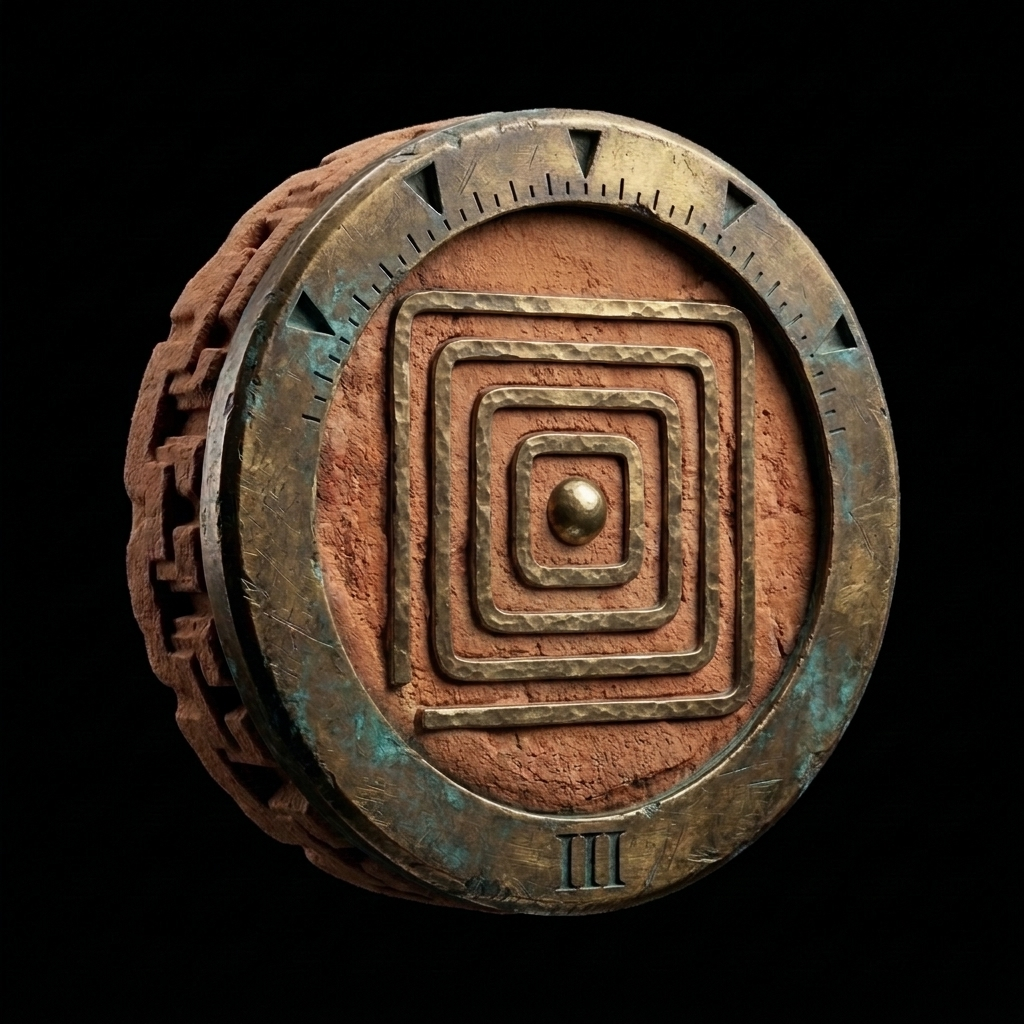
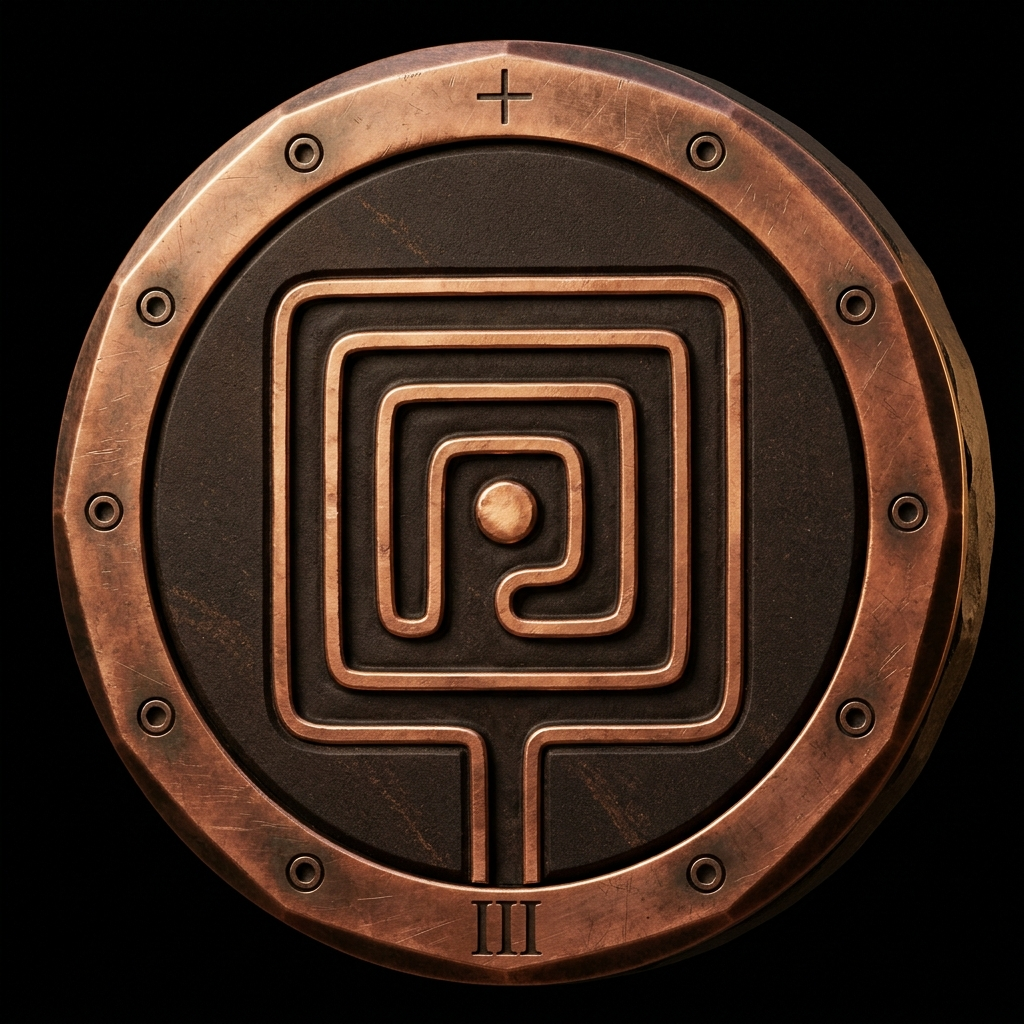
The relics of Cairn III and Cairn IV get Antigravity's new photographic art: the Seal of Cairn III is redrawn, and the Seal of Cairn IV and the Tuning Pebble now have their own transparent pictures. The satchel's inspector drops its Signal and Map buttons, so that each relic is looked at, turned and

diff --git a/web/hub/js/hub-core.js b/web/hub/js/hub-core.js
@@ -405,27 +405,6 @@
           } catch (e) {}
         }
 
-        playAureliaCodePulse() {
-          if (this._muted()) return;
-          try {
-            this.init();
-            const base = this.ctx.currentTime;
-            // Canon pattern: 3 short, pause, 2 long (... --)
-            const beats = [[0, 0.075], [0.14, 0.075], [0.28, 0.075], [0.52, 0.24], [0.84, 0.24]];
-            beats.forEach(([off, dur]) => {
-              const osc = this.ctx.createOscillator();
-              const g = this.ctx.createGain();
-              osc.type = 'sine';
-              osc.frequency.setValueAtTime(739.99, base + off);
-              g.gain.setValueAtTime(0.0001, base + off);
-              g.gain.linearRampToValueAtTime(0.085, base + off + 0.012);
-              g.gain.exponentialRampToValueAtTime(0.0001, base + off + dur);
-              osc.connect(g); g.connect(this.ctx.destination);
-              osc.start(base + off); osc.stop(base + off + dur + 0.03);
-            });
-          } catch (e) {}
-        }
-
         playRelicFoley(relicId, isHalfOil = false) {
           if (this._muted()) return;
           try {
@@ -7213,7 +7192,7 @@
           id: "tuning_pebble",
           name: "The Tuning Pebble · Cairn IV",
           category: "Mysterious Token",
-          image: "assets/items/item_tuning_pebble.webp",
+          image: "assets/items/item_tuning_pebble.png",
           origin: "Throat of the Left Pillar · Cairn IV · Oct 2026",
           summary: "A smooth river pebble with a small gold star painted on a ground of lapis blue.",
           lore: "Wedged in the throat of the Left pillar of Cairn IV, where it turns the night wind into three short calls and two long ones: the code Hermes engraved on Aurelia's brass disc. The founders' bronze reeds are ancient. The pebble is not."
@@ -7294,7 +7273,7 @@
           id: "seal_cairn_4",
           name: "The Seal of Cairn IV · Sentry of the Canyon",
           category: "Sacred Seal",
-          image: "assets/items/item_seal_cairn_4.svg",
+          image: "assets/items/item_seal_cairn_4.png",
           origin: "The singing pillars · Station 16 · Oct 2026",
           summary: "A sandstone disc carved with a bridge, two pillars and three arcs of sound above them.",
           lore: "The pillars of Cairn IV turn the night wind into a tune, and this seal is the tune written down. It was won at the end of a night of listening, in the gorge below the Sentinel Mesa."
@@ -7689,7 +7668,6 @@
       let currentInventoryFilter = 'all';
       let isInspectZoomed = false;
       let isInspectFlipped = false;
-      let isOilBeforePreview = false;
       let satchelInteractionsWired = false;
 
       const RELIC_EXTRAS = {
@@ -7997,45 +7975,6 @@
           });
         }
 
-        // Special Contextual Action
-        const btnSpecial = document.getElementById('btn-si-special');
-        if (btnSpecial) {
-          btnSpecial.addEventListener('click', () => {
-            const id = selectedInventoryItemId;
-            if (id === 'lamp_oil') {
-              isOilBeforePreview = !isOilBeforePreview;
-              if (sfx && sfx.playRelicFoley) sfx.playRelicFoley('lamp_oil', !isOilBeforePreview);
-              inspectInventoryItem('lamp_oil', { silent: true });
-            } else if (id === 'tuning_pebble' || id === 'signal_mirror' || id === 'gilded_star') {
-              if (sfx && sfx.playAureliaCodePulse) sfx.playAureliaCodePulse();
-              const artWrap = document.getElementById('si-inspect-art-wrap');
-              if (artWrap) {
-                artWrap.classList.remove('is-aurelia-pulse');
-                void artWrap.offsetWidth;
-                artWrap.classList.add('is-aurelia-pulse');
-                setTimeout(() => artWrap.classList.remove('is-aurelia-pulse'), 1150);
-              }
-            }
-          });
-        }
-
-        // Locate Origin on Map
-        const btnLocate = document.getElementById('btn-si-locate');
-        if (btnLocate) {
-          btnLocate.addEventListener('click', () => {
-            const extra = getRelicExtra(selectedInventoryItemId);
-            if (!extra.nodeId) return;
-            closeSatchelInventoryModal();
-            if (typeof window.activateHubView === 'function') window.activateHubView('view-trail');
-            if (typeof window.switchMapPath === 'function' && Number(extra.nodeId) >= 10) {
-              window.switchMapPath(Number(extra.nodeId) >= 40 ? 'stage' : 'desert', true);
-            }
-            if (typeof window.selectMapNode === 'function') {
-              setTimeout(() => window.selectMapNode(extra.nodeId, true), 120);
-            }
-          });
-        }
-
         // Hover set highlights
         const highlightSet = (ids, on) => {
           document.querySelectorAll('#si-items-grid .si-mc-slot.is-filled').forEach((s) => {
@@ -8154,7 +8093,6 @@
         currentInventoryFilter = 'all';
         isInspectZoomed = false;
         isInspectFlipped = false;
-        isOilBeforePreview = false;
         if (selectId) selectedInventoryItemId = selectId;
         renderSatchelInventory();
         modal.style.display = 'flex';
@@ -8181,7 +8119,6 @@
       function inspectInventoryItem(id, opts) {
         opts = opts || {};
         if (selectedInventoryItemId !== id) {
-          isOilBeforePreview = false;
           isInspectFlipped = false;
           isInspectZoomed = false;
         }
@@ -8196,49 +8133,21 @@
         const desc = document.getElementById('si-inspect-desc');
         const revText = document.getElementById('si-reverse-text');
         const hermesEl = document.getElementById('si-hermes-note');
-        const btnSpecial = document.getElementById('btn-si-special');
-        const btnSpecialLbl = document.getElementById('btn-si-special-label');
-        const btnLocate = document.getElementById('btn-si-locate');
 
         const isSharedOil = id === 'lamp_oil' && (
           (window.GatesRoad && window.GatesRoad.flags && window.GatesRoad.flags().nightOil === 'shared') ||
           (function () { try { return JSON.parse(localStorage.getItem('order_gates_flags') || '{}').nightOil === 'shared'; } catch (e) { return false; } })()
         );
 
-        let displayImage = relic.image;
-        let displayOrigin = relic.origin;
-        let displayLore = relic.lore;
-        if (id === 'lamp_oil' && isSharedOil && isOilBeforePreview) {
-          displayImage = 'assets/items/item_lamp_oil.png';
-          displayOrigin = "The nomads' cache · Camp VIII (Sealed State)";
-          displayLore = 'Sealed with crimson cord and dripping red wax as Hermes originally unearthed it beside the falcon weight before sharing light on the Erg.';
-        }
-
-        if (img) img.src = displayImage;
+        if (img) img.src = relic.image;
         if (cat) cat.textContent = relic.category;
         if (title) title.textContent = relic.name;
-        if (origin) origin.textContent = displayOrigin;
-        if (desc) desc.textContent = displayLore;
+        if (origin) origin.textContent = relic.origin;
+        if (desc) desc.textContent = relic.lore;
 
         const extra = getRelicExtra(id);
         if (revText) revText.textContent = extra.inscription;
         if (hermesEl) hermesEl.textContent = typeof extra.hermesNote === 'function' ? extra.hermesNote() : String(extra.hermesNote || '');
-
-        if (btnSpecial && btnSpecialLbl) {
-          if (id === 'lamp_oil' && isSharedOil) {
-            btnSpecial.hidden = false;
-            btnSpecialLbl.textContent = isOilBeforePreview ? '◐ After the Erg' : '◐ Before the Erg';
-          } else if (id === 'tuning_pebble' || id === 'signal_mirror' || id === 'gilded_star') {
-            btnSpecial.hidden = false;
-            btnSpecialLbl.textContent = '✦ Signal ··· ——';
-          } else {
-            btnSpecial.hidden = true;
-          }
-        }
-
-        if (btnLocate) {
-          btnLocate.hidden = !extra.nodeId;
-        }
 
         syncInspectArtStates();
 
@@ -8256,7 +8165,7 @@
         });
 
         if (opts.playFoley && sfx && sfx.playRelicFoley) {
-          sfx.playRelicFoley(id, isSharedOil && !isOilBeforePreview);
+          sfx.playRelicFoley(id, isSharedOil);
         }
       }
 

diff --git a/web/sw.js b/web/sw.js
@@ -7,7 +7,7 @@
 // - The cloud save (Supabase) and anything else outside the site are never touched.
 'use strict';
 // <offline-list> written by scripts/web/offline_list.py; do not edit by hand
-var VERSION = '08f54a54b307';  // 233 files, 51.3 MB
+var VERSION = 'cd603af8a2f9';  // 237 files, 54.3 MB
 var PRECACHE = [
   "./",
   "./assets/branding/favicon-192.png",
@@ -63,6 +63,8 @@ var PRECACHE = [
   "./assets/items/item_seal_cairn_3.jpg",
   "./assets/items/item_seal_cairn_3.png",
   "./assets/items/item_seal_cairn_3.svg",
+  "./assets/items/item_seal_cairn_4.jpg",
+  "./assets/items/item_seal_cairn_4.png",
   "./assets/items/item_seal_cairn_4.svg",
   "./assets/items/item_seal_cairn_5.svg",
   "./assets/items/item_servant_coin.jpg",
@@ -73,6 +75,8 @@ var PRECACHE = [
   "./assets/items/item_statue_seal.jpg",
   "./assets/items/item_statue_seal.png",
   "./assets/items/item_surveyor_compass.jpg",
+  "./assets/items/item_tuning_pebble.jpg",
+  "./assets/items/item_tuning_pebble.png",
   "./assets/items/item_tuning_pebble.webp",
   "./assets/items/item_water_skins.jpg",
   "./assets/items/item_water_skins.png",

diff --git a/web/hub/css/camp-messenger.css b/web/hub/css/camp-messenger.css
@@ -1099,10 +1099,6 @@
     .si-inspect-art-wrap.is-zoomed.is-flipped .si-inspect-img {
       transform: rotateX(var(--rx)) rotateY(calc(180deg + var(--ry))) scale(1.32);
     }
-    .si-inspect-art-wrap.is-aurelia-pulse .si-art-glint {
-      opacity: 1;
-      background: radial-gradient(circle, rgba(120, 180, 255, 0.45) 0%, rgba(251, 191, 36, 0.45) 45%, transparent 72%);
-    }
 
     .si-inspect-toolbar {
       display: flex;
@@ -1133,6 +1129,7 @@
       cursor: pointer;
       transition: all 0.16s ease;
     }
+    .si-tool-btn[hidden] { display: none !important; }
     .si-tool-btn:hover {
       background: #1e2a42;
       border-color: #fbbf24;
@@ -1143,13 +1140,6 @@
       background: linear-gradient(135deg, #b88a46 0%, #7a541c 100%);
       border-color: #ffdf9e;
       color: #0b0f18;
-    }
-    .si-tool-special {
-      border-color: rgba(110, 231, 183, 0.55);
-      color: #a7f3d0;
-    }
-    .si-tool-special:hover {
-      border-color: #6ee7b7;
     }
 
     .si-reverse-box {

diff --git a/web/index.html b/web/index.html
@@ -2619,12 +2619,6 @@
             <button type="button" class="si-tool-btn" id="btn-si-flip" aria-pressed="false" aria-label="Flip relic to inspect reverse inscription">
               <span aria-hidden="true">↻</span><span>Flip</span>
             </button>
-            <button type="button" class="si-tool-btn si-tool-special" id="btn-si-special" hidden aria-label="Relic special action">
-              <span id="btn-si-special-label">✦ Inspect</span>
-            </button>
-            <button type="button" class="si-tool-btn" id="btn-si-locate" hidden aria-label="Locate origin on map">
-              <span aria-hidden="true">📍</span><span>Map</span>
-            </button>
           </div>
           <div class="si-reverse-box" id="si-reverse-box" hidden>
             <div class="si-reverse-kicker">REVERSE ENGRAVING &amp; CLOSE INSPECTION</div>
